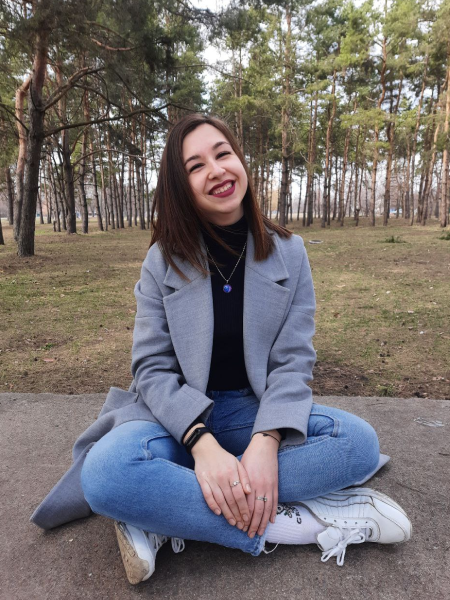
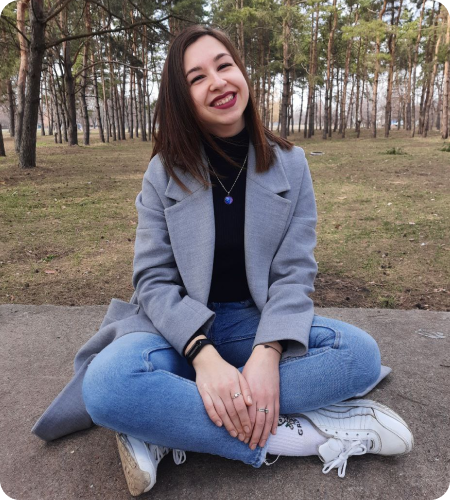
fix adaptivity

diff --git a/src/index.css b/src/index.css
@@ -17,7 +17,7 @@
   --primary-black: black;
   --button-color-one: #456EBD;
   --button-color-two: #9D2555;
-  --button-color-three: #A98973;
+  --button-color-three: #916d55;
 }
 
 * {
@@ -38,6 +38,7 @@ html {
 .shape {
   position: absolute;
   animation: rotate 15s linear infinite;
+  z-index: -1;
 }
 
 
@@ -90,14 +91,10 @@ html {
   margin: 0 0 0.4rem -0.2rem;
 }
 
-.home p {
-  font-size: 1.1rem;
-}
-
 h1 {
+  margin-bottom: 1.25rem;
   font-size: 3rem;
   font-family: 'KyivTypeSans-Bold', 'Lato-Bold', 'Open Sans-Bold', sans-serif;
-  margin-bottom: 1.5rem;
 }
 
 p {
@@ -113,8 +110,11 @@ p {
 }
 
 .image--left {
-  top: calc(50vh - 20rem);
+  /* top: calc(50vh - 20rem); */
   left: -15rem;
+  opacity: 0.8;
+  display: flex;
+  justify-self: center;
 }
 
 @keyframes rotate {
@@ -156,33 +156,34 @@ p {
 .works {
   height: calc(100vh - 15rem);
   display: flex;
-  align-items: center;
-  margin: 0 8vw;
   justify-content: space-between;
   width: 84vw;
+  margin: 0 8vw;
+}
+
+.about {
+  align-items: center;
 }
 
 .image--right {
   top: calc(1vh - 22.5rem);
   left: 70vw;
   opacity: 0.3;
-  z-index: -1;
 }
 
 .about__container--left {
   max-width: 32.5rem;
 }
 
-.photo {
-  border-radius: 1rem;
-  padding-right: 0.5rem;
+/*WORKS PAGE*/
+.works {
+  align-items: flex-start;
 }
 
-/*WORKS PAGE*/
 .works__container--right,
 .image__container {
-  min-width: 22.5rem;
-  min-height: 30rem;
+  /* min-width: 22.5rem;
+  min-height: 30rem; */
   display: flex;
   flex-direction: column;
 }
@@ -202,6 +203,9 @@ p {
 
 .line {
   margin-bottom: 1rem;
+  background-image: url('./assets//images/wave-line-450.svg');
+  width: 450px;
+  height: 10px;
 }
 
 .red:hover {
@@ -228,6 +232,7 @@ p {
 
 .project__container {
   display: grid;
+  grid-gap: 1rem;
   grid-template-columns: 1fr 1fr 2.5fr;
 }
 
@@ -242,7 +247,6 @@ p {
 .project__image {
   padding: 0;
   width: 84vw;
-  border-radius: 0;
 }
 
 #project__button {
@@ -265,4 +269,167 @@ p {
 
 ::-webkit-scrollbar-thumb:hover {
   background: #686868;
+}
+
+@media (max-width: 1441px) {
+  .about__container--left {
+    max-width: 23rem;
+  }
+
+  #my-image {
+    width: 20rem;
+  }
+
+  .image__container {
+    margin-top: 5.7rem;
+    max-width: 400px;
+  }
+
+  .works__container--right {
+    max-width: 400px;
+  }
+
+  .line {
+    width: 400px;
+  }
+}
+
+
+
+@media (max-width: 1025px) {
+  .shape {
+    scale: 0.6;
+  }
+
+  .navbar {
+    height: 5rem;
+  }
+
+  .navbar a {
+    font-size: 1rem;
+  }
+
+  .image--left {
+    left: -20rem;
+  }
+
+  #main-logo {
+    font-size: 1rem;
+  }
+
+  .home {
+    margin: 0 0 0 35vw;
+    width: 24rem;
+    height: calc(100vh - 5rem);
+  }
+
+  h1 {
+    font-size: 2.5rem;
+  }
+
+  .image--right {
+    left: 50vw;
+  }
+
+  .about {
+    flex-direction: column-reverse;
+    justify-content: flex-start;
+    height: fit-content;
+    overflow: auto;
+  }
+
+  .about__container--left {
+    max-width: 84vw;
+    margin-bottom: 2rem;
+  }
+
+  #my-image {
+    width: 22.5rem;
+    margin-bottom: 2rem;
+  }
+
+  .works__container--right {
+    max-width: 350px;
+  }
+
+  .line {
+    width: 350px;
+  }
+
+  .image__container {
+    margin-top: 5.1rem;
+    max-width: 300px;
+  }
+
+  .works__type,
+  .works__title,
+  p {
+    font-size: 0.9rem;
+  }
+}
+
+
+
+@media (max-width: 769px) {
+  .shape {
+    scale: 0.4;
+    top: -400px;
+  }
+
+  .navbar a {
+    font-size: 0.8rem;
+  }
+
+  #main-logo {
+    font-size: 0.8rem;
+  }
+
+  .home {
+    width: 84vw;
+    margin: 0 8vw;
+  }
+
+  .works__title,
+  .works__type,
+  p {
+    font-size: 0.7rem;
+    margin-bottom: 0.4rem;
+  }
+
+  h1 {
+    font-size: 1.5rem;
+  }
+
+  .button__container {
+    min-width: 84vw;
+  }
+
+  .button {
+    font-size: 0.7rem;
+    padding: 0.7rem 0;
+  }
+
+  .image__container {
+    display: none;
+  }
+
+  .works__container--right {
+    max-width: 84vw;
+    width: 84vw;
+  }
+
+  .line {
+    width: 84vw;
+  }
+
+  .project__container {
+    grid-template-columns: none;
+  }
+
+  .project__category,
+  .project__values {
+    display: grid;
+    grid-template-columns: 1fr 1fr;
+  }
+
 }

diff --git a/src/components/WorksElem.jsx b/src/components/WorksElem.jsx
@@ -1,4 +1,3 @@
-import WaveLine from "../assets/images/wave-line.svg"
 import { Link } from "react-router-dom";
 
 const WorksElem = ({ title, type, isLined, onMouseOver, onMouseOut }) => {
@@ -8,7 +7,8 @@ const WorksElem = ({ title, type, isLined, onMouseOver, onMouseOut }) => {
                 <Link to={`/works/${title.replace(/\s+/g, '-')}`} className="works__title button red">{title}</Link>
                 <div className="works__type">{type}</div>
             </div>
-            {isLined && <img className="line" src={WaveLine} alt="Line" />}
+            {/* {isLined && <img className="line" src={WaveLine} alt="Line" />} */}
+            {isLined && <div className="line"></div>}
         </div>
     );
 }

diff --git a/src/pages/About.jsx b/src/pages/About.jsx
@@ -2,6 +2,7 @@ import MyImg from "../assets/images/my-img.png"
 import AboutImg from "../assets/images/shape-about.png"
 
 const About = () => {
+    document.body.style.overflow = 'auto';
     return (
         <div className="about">
             <div className="about__container--left">

diff --git a/src/pages/Works.jsx b/src/pages/Works.jsx
@@ -17,6 +17,7 @@ const Works = () => {
     const handleMouseOut = () => {
         setHoveredImage(null);
     };
+    document.body.style.overflow = 'auto';
 
     return (
         <div className="works">
